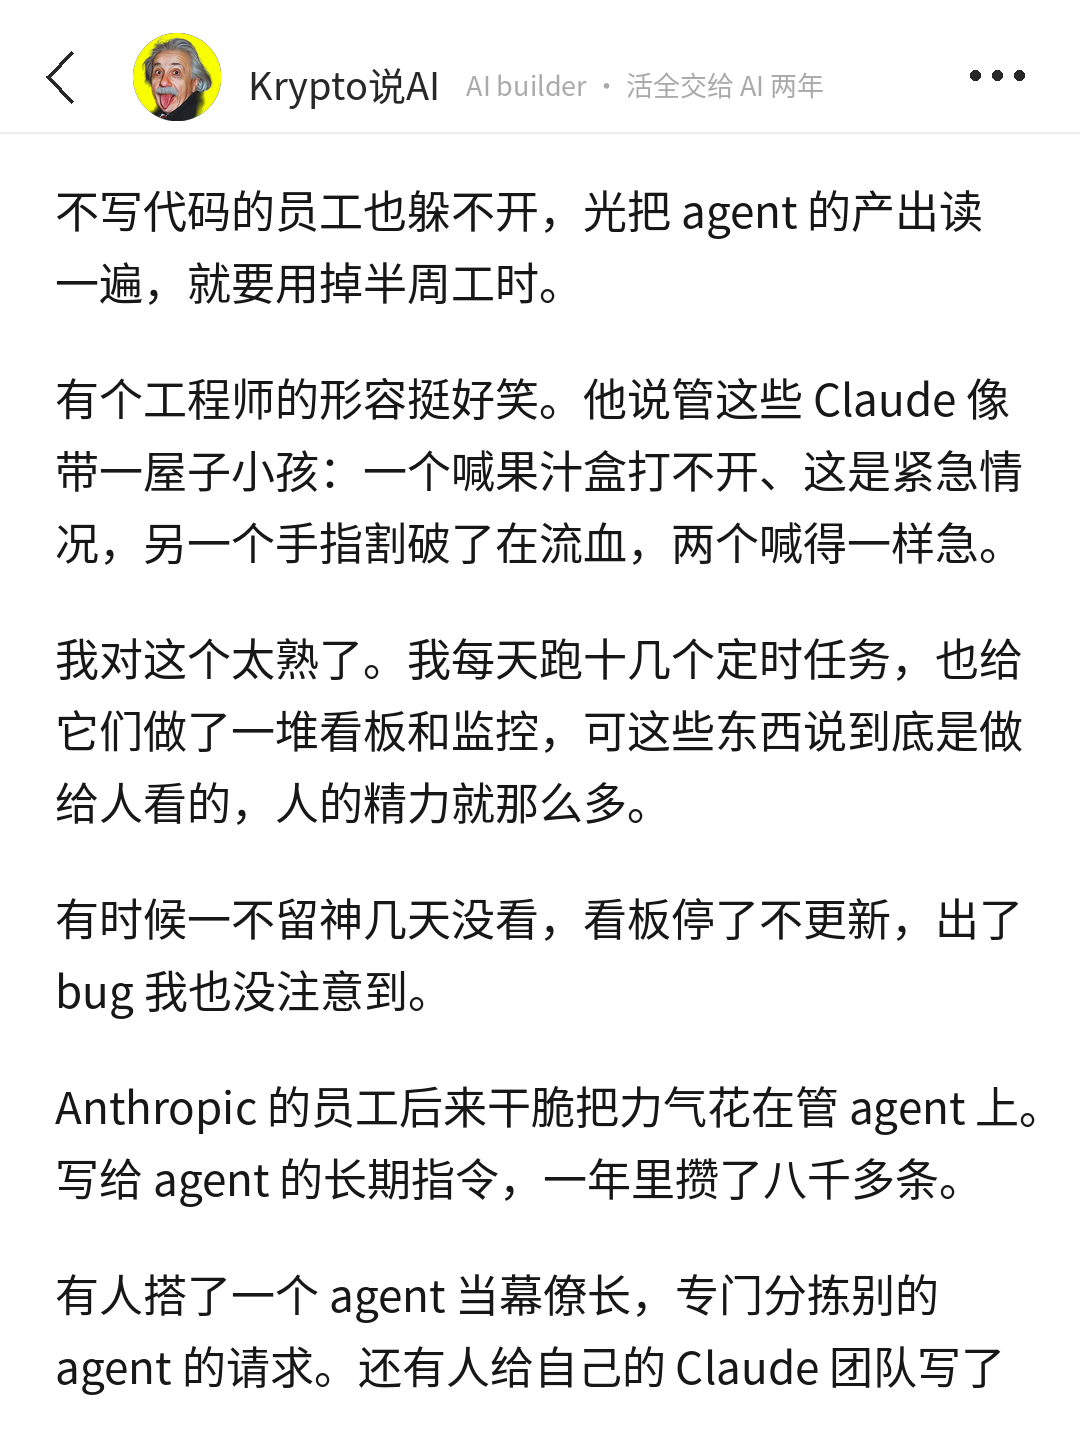
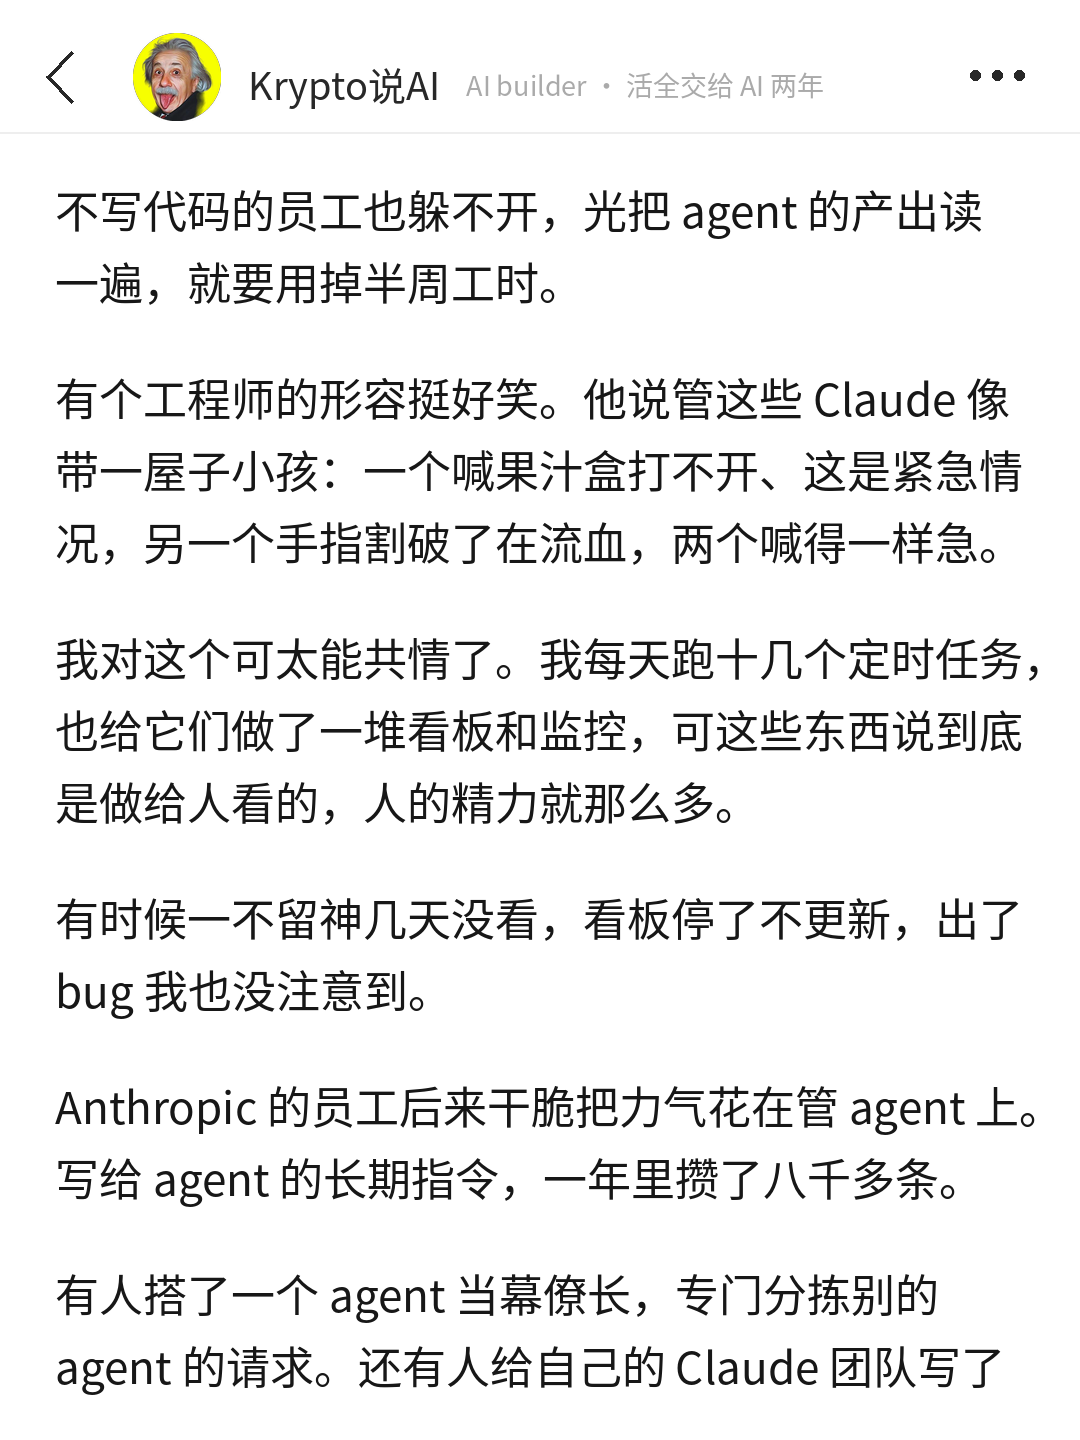
Anthropic 就业稿：「我对这个太熟了」改「我对这个可太能共情了」
Claude-Session: https://claude.ai/code/session_01F7f2EAghug6CLbDqppUVjD

Changed region(s): [[0.0611, 0.4375, 0.9472, 0.5938]]

diff --git a/发布/2026-10-20_anthropic-employment/meme版/编辑用/draft.md b/发布/2026-10-20_anthropic-employment/meme版/编辑用/draft.md
@@ -39,7 +39,7 @@ account: Krypto说AI
 
 有个工程师的形容挺好笑。他说管这些 Claude 像带一屋子小孩：一个喊果汁盒打不开、这是紧急情况，另一个手指割破了在流血，两个喊得一样急。
 
-我对这个太熟了。我每天跑十几个定时任务，也给它们做了一堆看板和监控，可这些东西说到底是做给人看的，人的精力就那么多。
+我对这个可太能共情了。我每天跑十几个定时任务，也给它们做了一堆看板和监控，可这些东西说到底是做给人看的，人的精力就那么多。
 
 有时候一不留神几天没看，看板停了不更新，出了 bug 我也没注意到。
 
